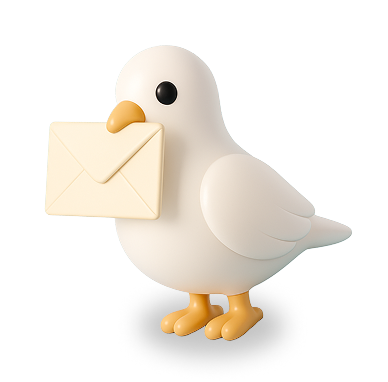
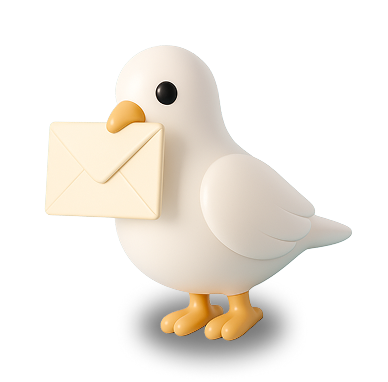
Deploy from build: 3cdd85bc406445c8f5c212f19433661a22733493

Changed region(s): [[0.3402, 0.7487, 0.7423, 0.9503], [0.5258, 0.7487, 0.5876, 0.8351]]

diff --git a/src/components/bottom-sheet/BottomSheet.tsx b/src/components/bottom-sheet/BottomSheet.tsx
@@ -17,7 +17,7 @@ const BottomSheet: React.FC<{ setIsModalOpen: (isOpen: boolean) => void }> = ({
   const [isChecked, setIsChecked] = useState(data?.isCheckingCompleted);
   const [isChecked2, setIsChecked2] = useState(data?.isDairyCompleted);
   const [isChecked3, setIsChecked3] = useState(data?.isQuizCompleted);
-  const [percent] = useState(data?.wishTree.progressPercent);
+  const [percent, setPercent] = useState(data?.wishTree.progressPercent);
   const randomNum = (Math.floor(Math.random() * 3) + 1) % 2;
   const path =
     randomNum === 1
@@ -31,6 +31,7 @@ const BottomSheet: React.FC<{ setIsModalOpen: (isOpen: boolean) => void }> = ({
     setIsChecked(data?.isCheckingCompleted);
     setIsChecked2(data?.isDairyCompleted);
     setIsChecked3(data?.isQuizCompleted);
+    setPercent(data?.wishTree.progressPercent);
   }, [data]);
 
   // ===== DOM/드래그 제어용 ref =====
@@ -46,7 +47,7 @@ const BottomSheet: React.FC<{ setIsModalOpen: (isOpen: boolean) => void }> = ({
   const OVERDRAG = 40;
   const RESISTANCE = 0.35;
 
-  const snapPoints = [140, 560]; // [초기 90, 풀오픈 560]
+  const snapPoints = [100, 560]; // [초기 90, 풀오픈 560]
   const maxSnap = Math.max(...snapPoints);
 
   // 2) 초기 높이를 '90px'로 고정
@@ -279,7 +280,7 @@ const BottomSheet: React.FC<{ setIsModalOpen: (isOpen: boolean) => void }> = ({
                 소망 나무
               </div>
               <p>
-                {percent && percent > 3 ? (
+                {percent && percent > 100 ? (
                   <span>
                     지금 바로{" "}
                     <span className="text-primary-font">새로운 텃밭</span>을 열
@@ -296,6 +297,14 @@ const BottomSheet: React.FC<{ setIsModalOpen: (isOpen: boolean) => void }> = ({
                   </span>
                 )}
               </p>
+            </div>
+            <div className="flex justify-between mt-4">
+              <div className="text-body-sb text-primary-font">
+                {data?.wishTree.currentStage}
+              </div>
+              <div className="text-body-sb text-black">
+                {data?.wishTree.nextStage}
+              </div>
             </div>
             <div className="flex flex-col mt-4 h-2 w-full rounded-lg gap-1 text-body-sb bg-gray-200 text-black relative">
               <div

diff --git a/src/components/common/Toast.tsx b/src/components/common/Toast.tsx
@@ -24,7 +24,7 @@ export default function Toast({
 
   return (
     <div
-      className={`z-60 flex justify-between items-center fixed top-10 left-1/2 w-[90vw] -translate-x-1/2 rounded-sm text-black px-4 py-2 bg-white  transition-all duration-300 ${
+      className={`z-60 flex justify-between items-center fixed top-10 left-1/2 max-w-[90vw] w-full -translate-x-1/2 rounded-sm text-black px-4 py-2 bg-white  transition-all duration-300 ${
         visible ? "opacity-100 translate-y-0" : "opacity-0 translate-y-3"
       }`}
     >

diff --git a/src/types/apis/panel.ts b/src/types/apis/panel.ts
@@ -1,5 +1,6 @@
 export interface WishTree {
   currentStage: string;
+  nextStage: string;
   currentPoints: number;
   requiredPointsForNextStage: number;
   progressPercent: number;
